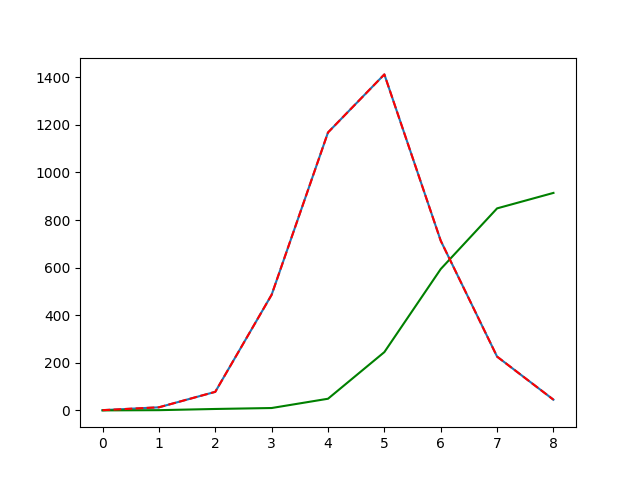
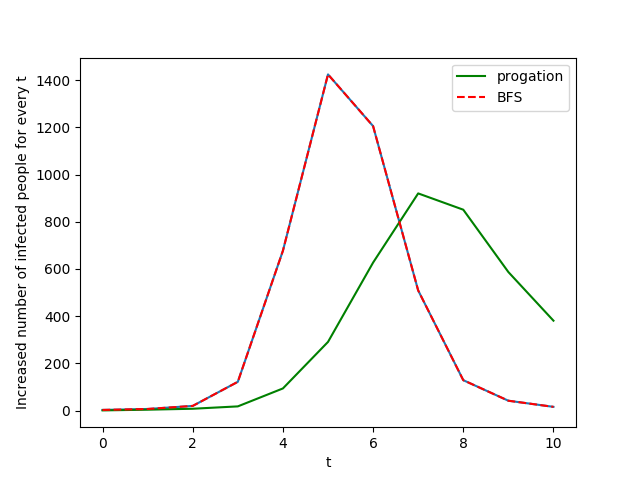
test

diff --git a/jarden_center/main_code/single-multiple-source/eccitsy922/Conditional_satisfaction/source_progation_likeBFS/likeBFS_onesource.py b/jarden_center/main_code/single-multiple-source/eccitsy922/Conditional_satisfaction/source_progation_likeBFS/likeBFS_onesource.py
@@ -59,6 +59,7 @@ class  LikeBFS:
         sort_BFS_dict = sorted(dict.items(),key= lambda x: x[0])
         y_list = []
         for everyLevel, node_list in sort_BFS_dict:
+            print('len(node_list)',len(node_list))
             y_list.append(len(node_list))
         return y_list[1:]
         # pass
@@ -110,7 +111,7 @@ class  LikeBFS:
 
             print('被感染点为' + str(count) + '个')
             progation_number += 1
-            if count / G_temp.number_of_nodes() > 0.4:
+            if count / G_temp.number_of_nodes() > 0.9:
                 print('超过50%节点了，不用传播啦')
                 break
         # 数据进去图，看看
@@ -129,11 +130,18 @@ class  LikeBFS:
 
 
     def plot_plus(self,x_list,y_list1,y_list2,propagation1):
-        plt.plot(x_list, y_list1, 'g')
-        plt.plot(x_list, y_list2, 'r--')
+
+        # label = 'y2'
+        plt.plot(x_list, y_list1, 'g', label = 'progation')
+        plt.plot(x_list, y_list2, 'r--', label='BFS')
+        plt.legend()
+        plt.xlabel('t')
+
+        plt.ylabel('Increased number of infected people for every t')
         plt.savefig('result/'+str(propagation1) + ".png")
 
-        pass
+
+        # pass
 
     def  get_best_BFScenter(self,subinfectG,fix_number_souce,progation_number,source_list):
         '''
@@ -186,10 +194,10 @@ class  LikeBFS:
         initG = commons.get_networkByFile('../../../data/CA-GrQc.txt')
         max_sub_graph = commons.judge_data(initG)
         source_list = commons.product_sourceList(max_sub_graph, 1)
-        infectG,progration_number, y_list1 = self.get_paogration(initG, source_list)
+        infectG, progration_number, y_list1 = self.get_paogration(max_sub_graph, source_list)
         print('progration_number',progration_number)
         print('len(y_list1)',len(y_list1))
-        y_list2 = self.get_BFS(infectG,source_list[0],progration_number)
+        y_list2 = self.get_BFS(max_sub_graph,source_list[0],progration_number)
 
 
         print(len(y_list2))
